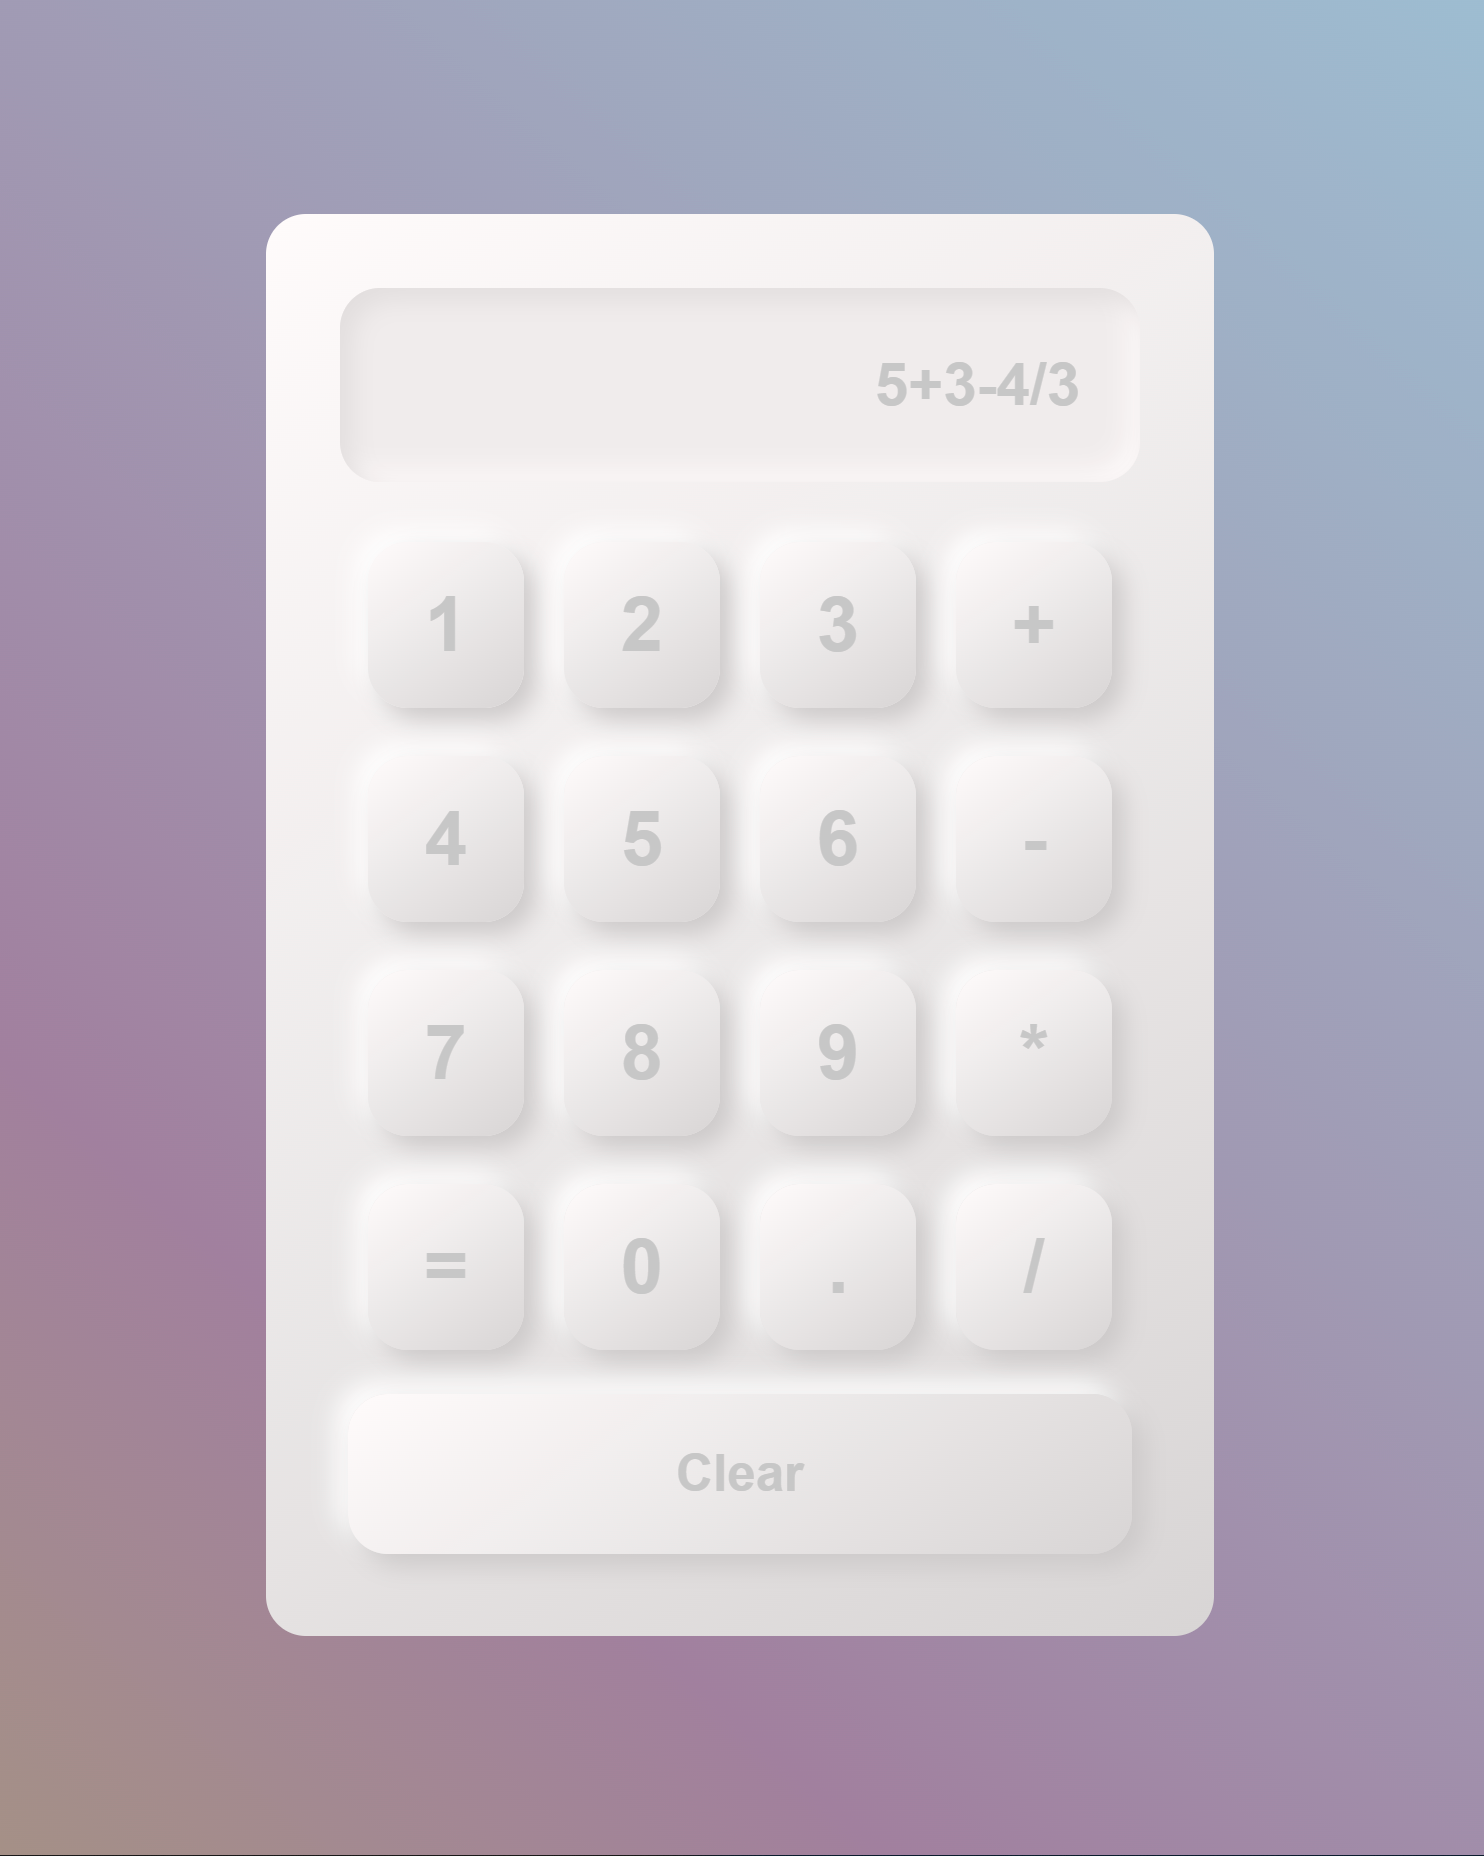
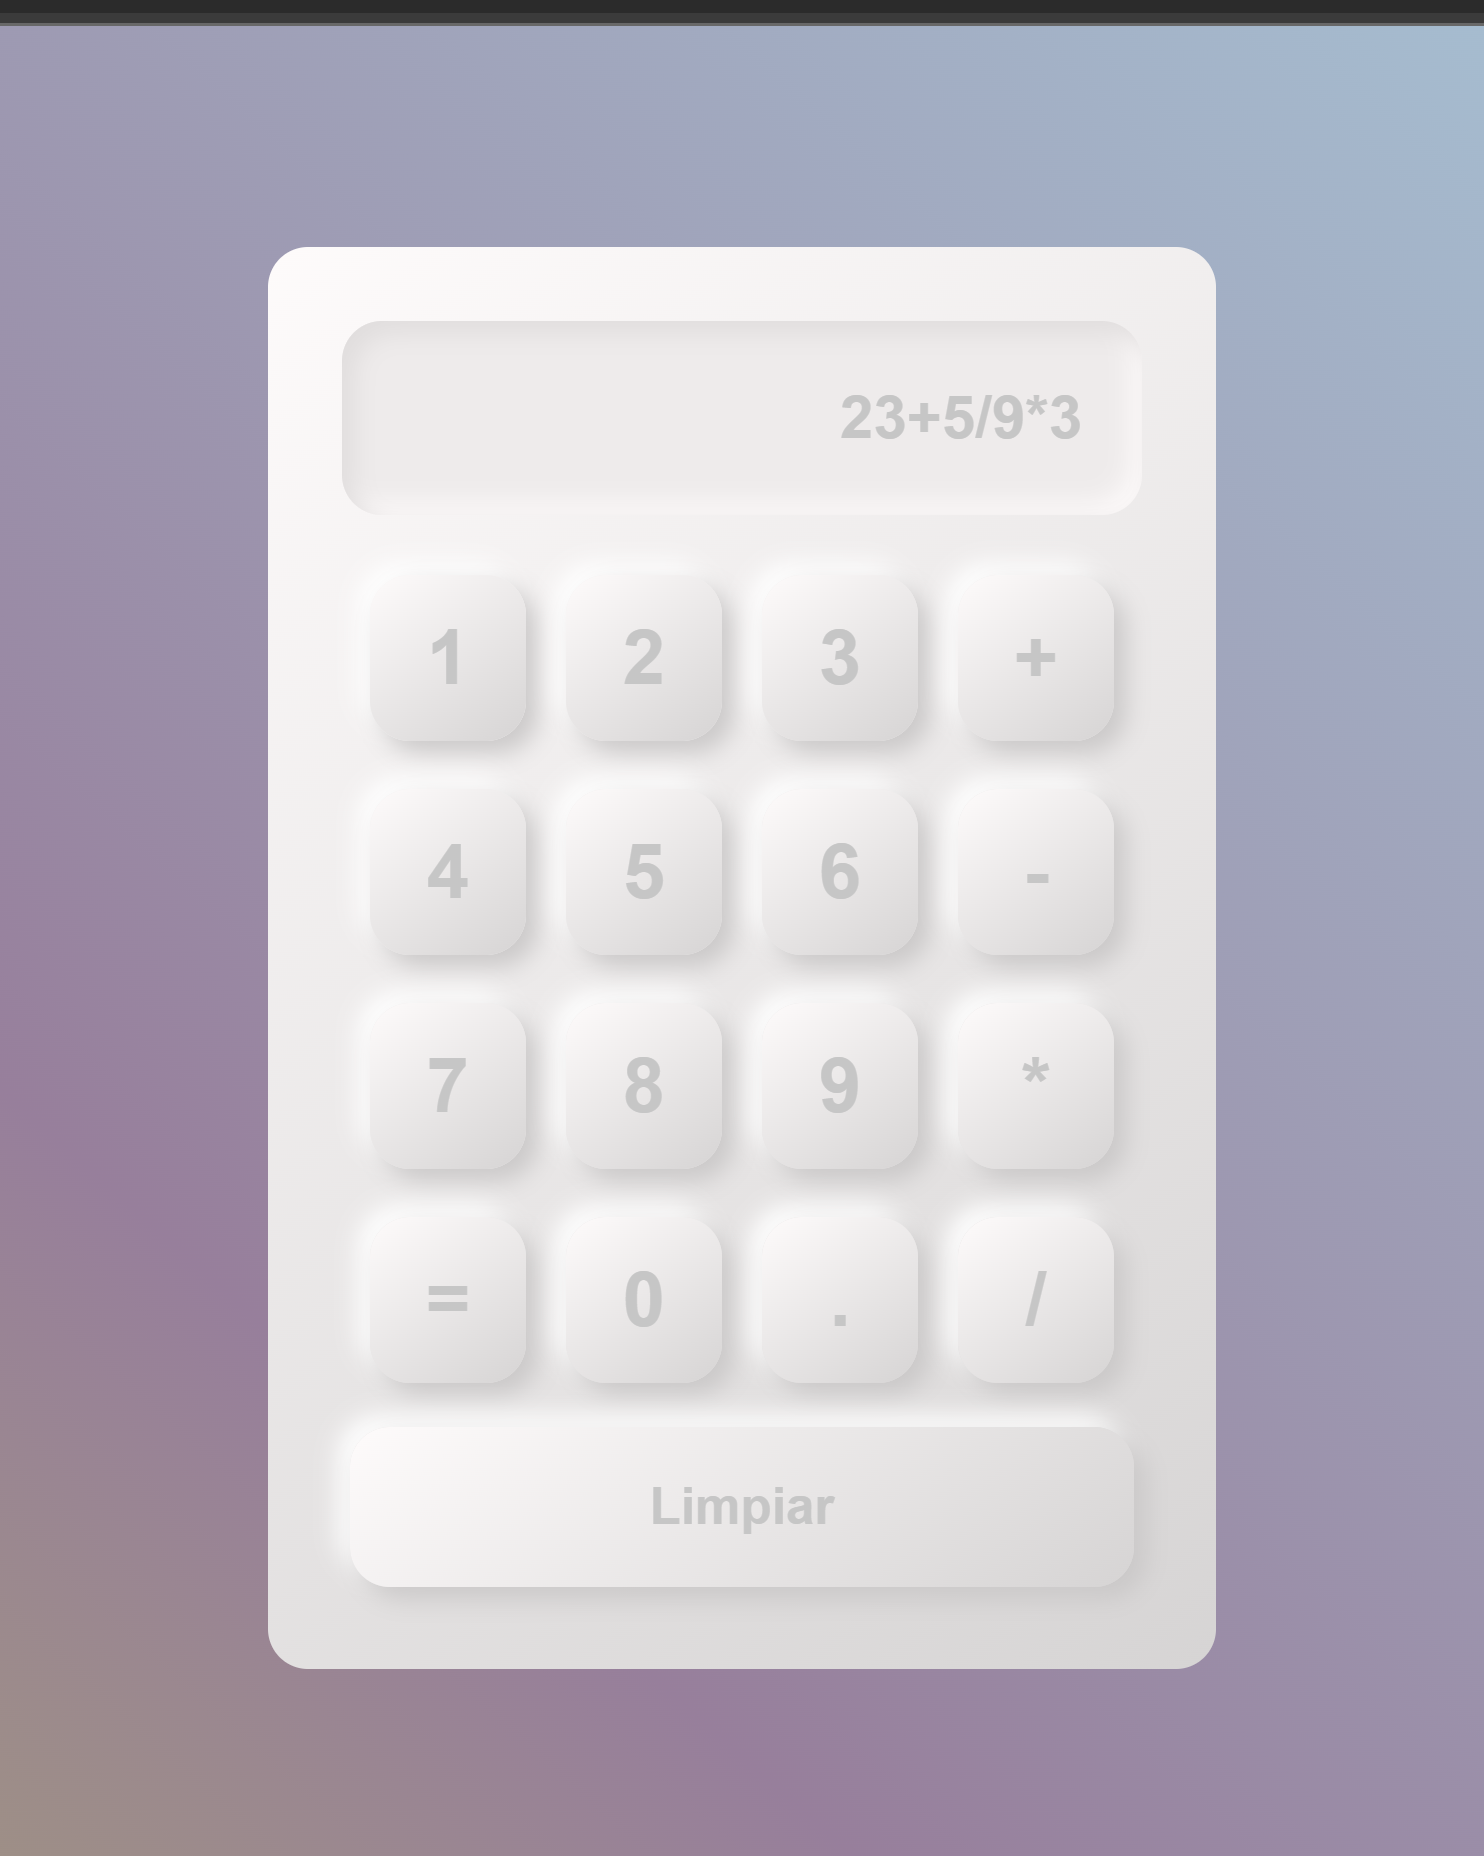
change

diff --git a/src/App.js b/src/App.js
@@ -54,7 +54,7 @@ function App() {
         </div>
         <div className='fila'>
           <BotonClear manejarClear={()=> setInput('')}>{/*lo seteo aca porque es una funcion sencilla*/}
-            Clear
+            Limpiar
           </BotonClear>
         </div>
       </div>
